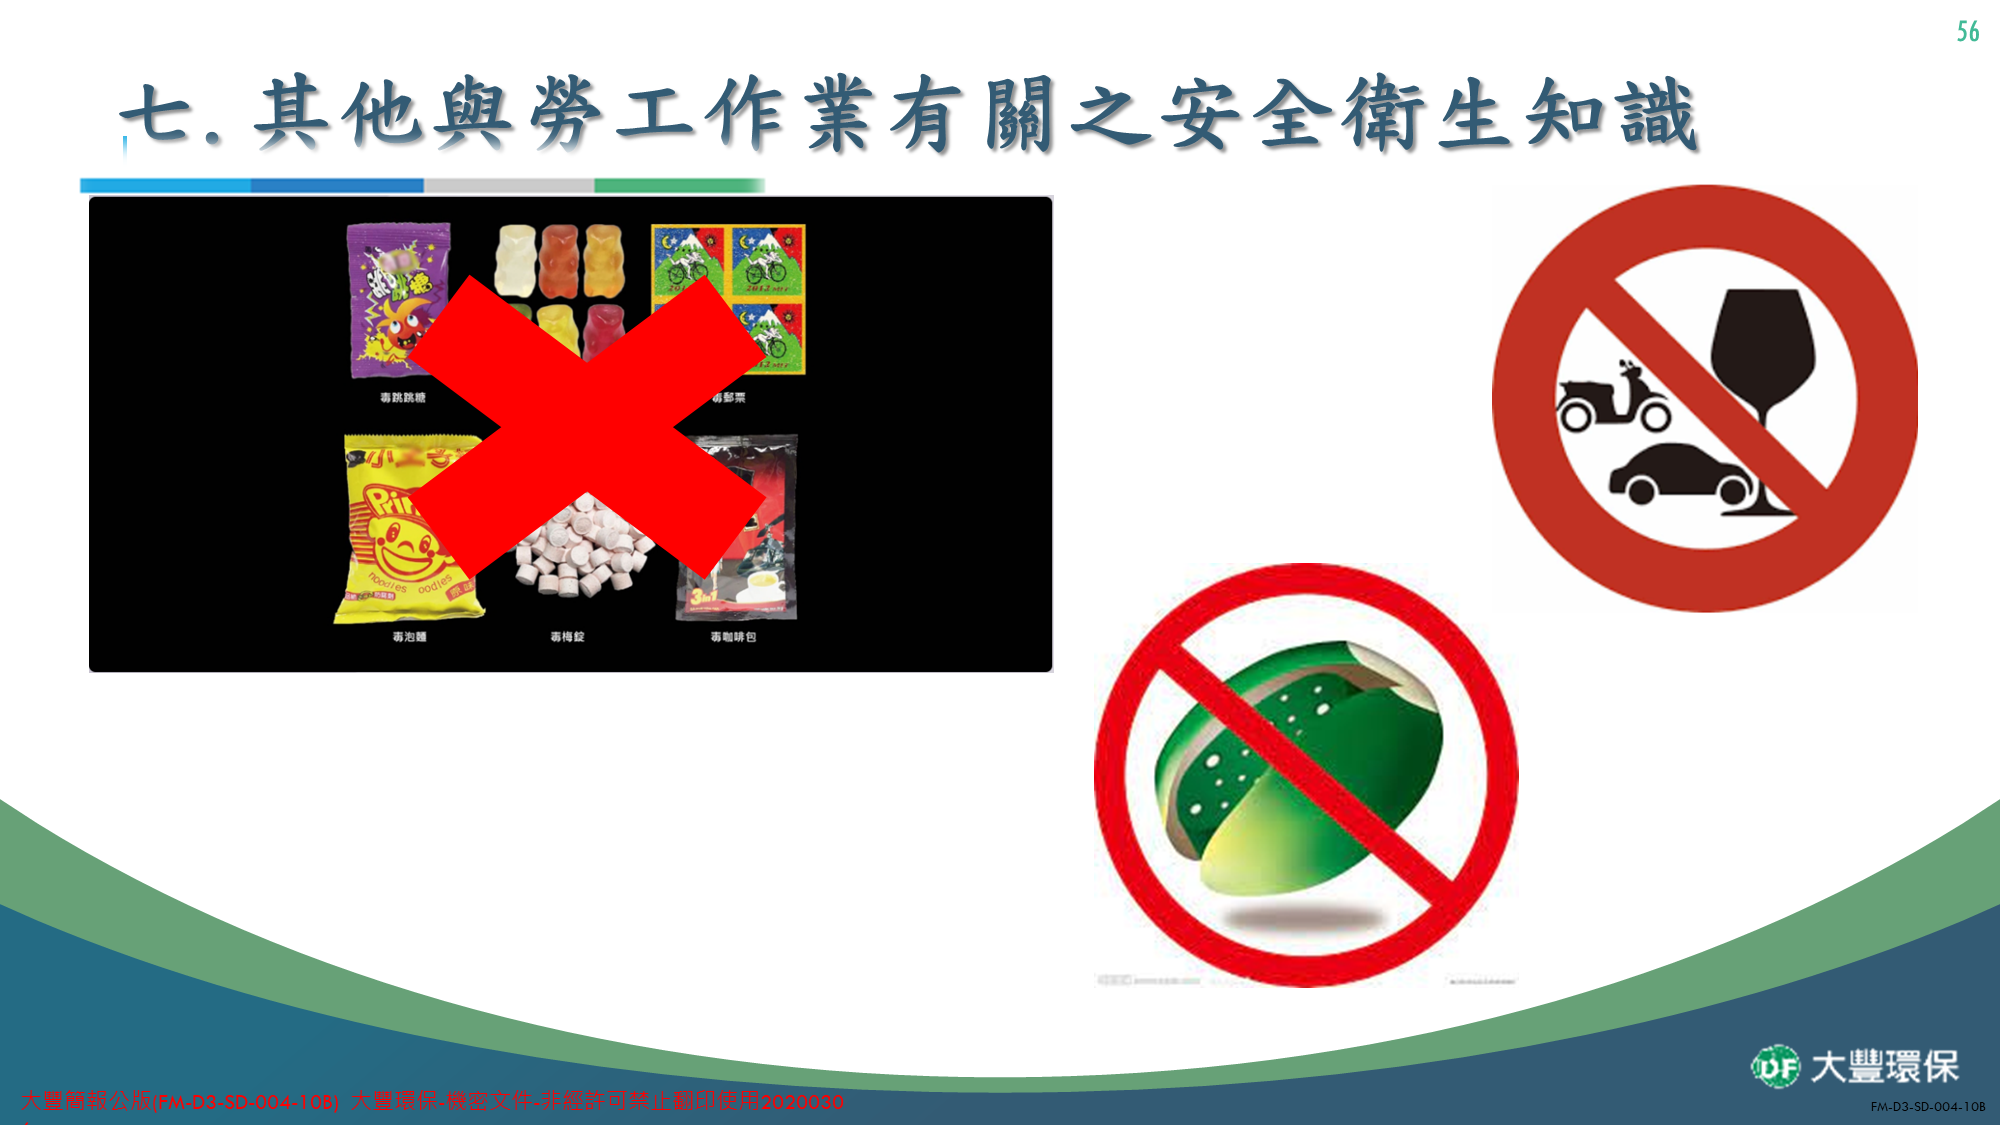
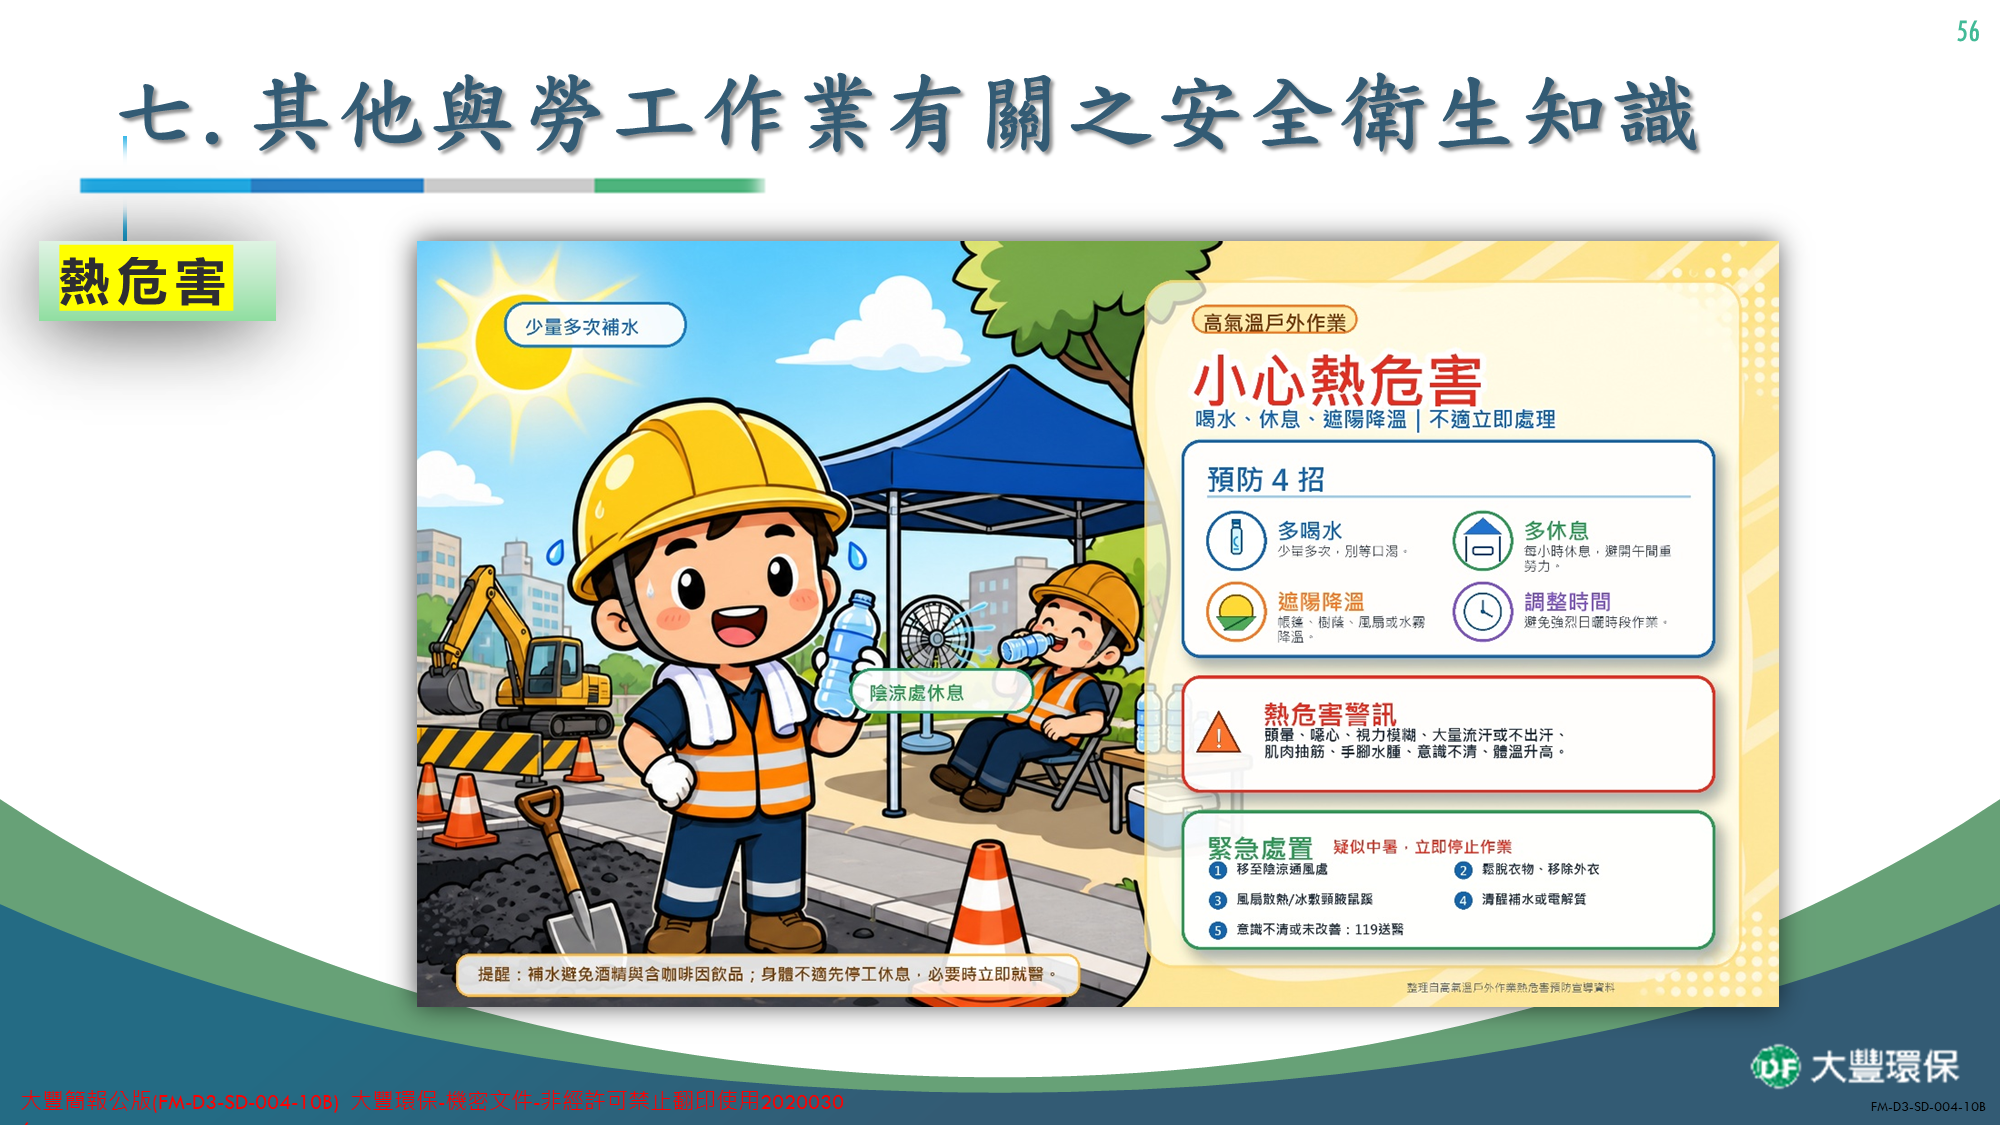
Fix slide insertion at 56-58 (correct from 57-59); update TOC and YOUTUBE_MAP
- Add slide56.png (new content page at position 56)
- Fix YOUTUBE_MAP: slide 57=DGTdlEFFSlo, 58=6-WCtVv7bjY (was 58/59)
- Fix TOC: Unit 7 range 54-60, Unit 8 goTo(61) range 61-63 (was goTo(58) 58-60)

diff --git a/training/Foreignfactory/index.html b/training/Foreignfactory/index.html
@@ -709,15 +709,15 @@ body.fs-active #progress-bar { z-index: 1001; }
       <span class="toc-pill tp-u7">Unit 7</span>
       <span class="toc-item-text">
         <strong>其他安全衛生知識（6S 管理）</strong>
-        <small>投影片 54–57</small>
+        <small>投影片 54–60</small>
       </span>
     </button>
 
-    <button type="button" class="toc-item" onclick="goTo(58);closeToc()">
+    <button type="button" class="toc-item" onclick="goTo(61);closeToc()">
       <span class="toc-pill tp-u8">Unit 8</span>
       <span class="toc-item-text">
         <strong>現場作業安衛及 6S 案例</strong>
-        <small>投影片 58–60</small>
+        <small>投影片 61–63</small>
       </span>
     </button>
 
@@ -785,12 +785,12 @@ const YOUTUBE_MAP = {
     watch: 'https://www.youtube.com/watch?v=gm3rcq7aeGM',
     id:    'gm3rcq7aeGM',
   },
-  58: {
+  57: {
     embed: 'https://www.youtube.com/embed/DGTdlEFFSlo?rel=0',
     watch: 'https://www.youtube.com/watch?v=DGTdlEFFSlo',
     id:    'DGTdlEFFSlo',
   },
-  59: {
+  58: {
     embed: 'https://www.youtube.com/embed/6-WCtVv7bjY?rel=0',
     watch: 'https://www.youtube.com/watch?v=6-WCtVv7bjY',
     id:    '6-WCtVv7bjY',